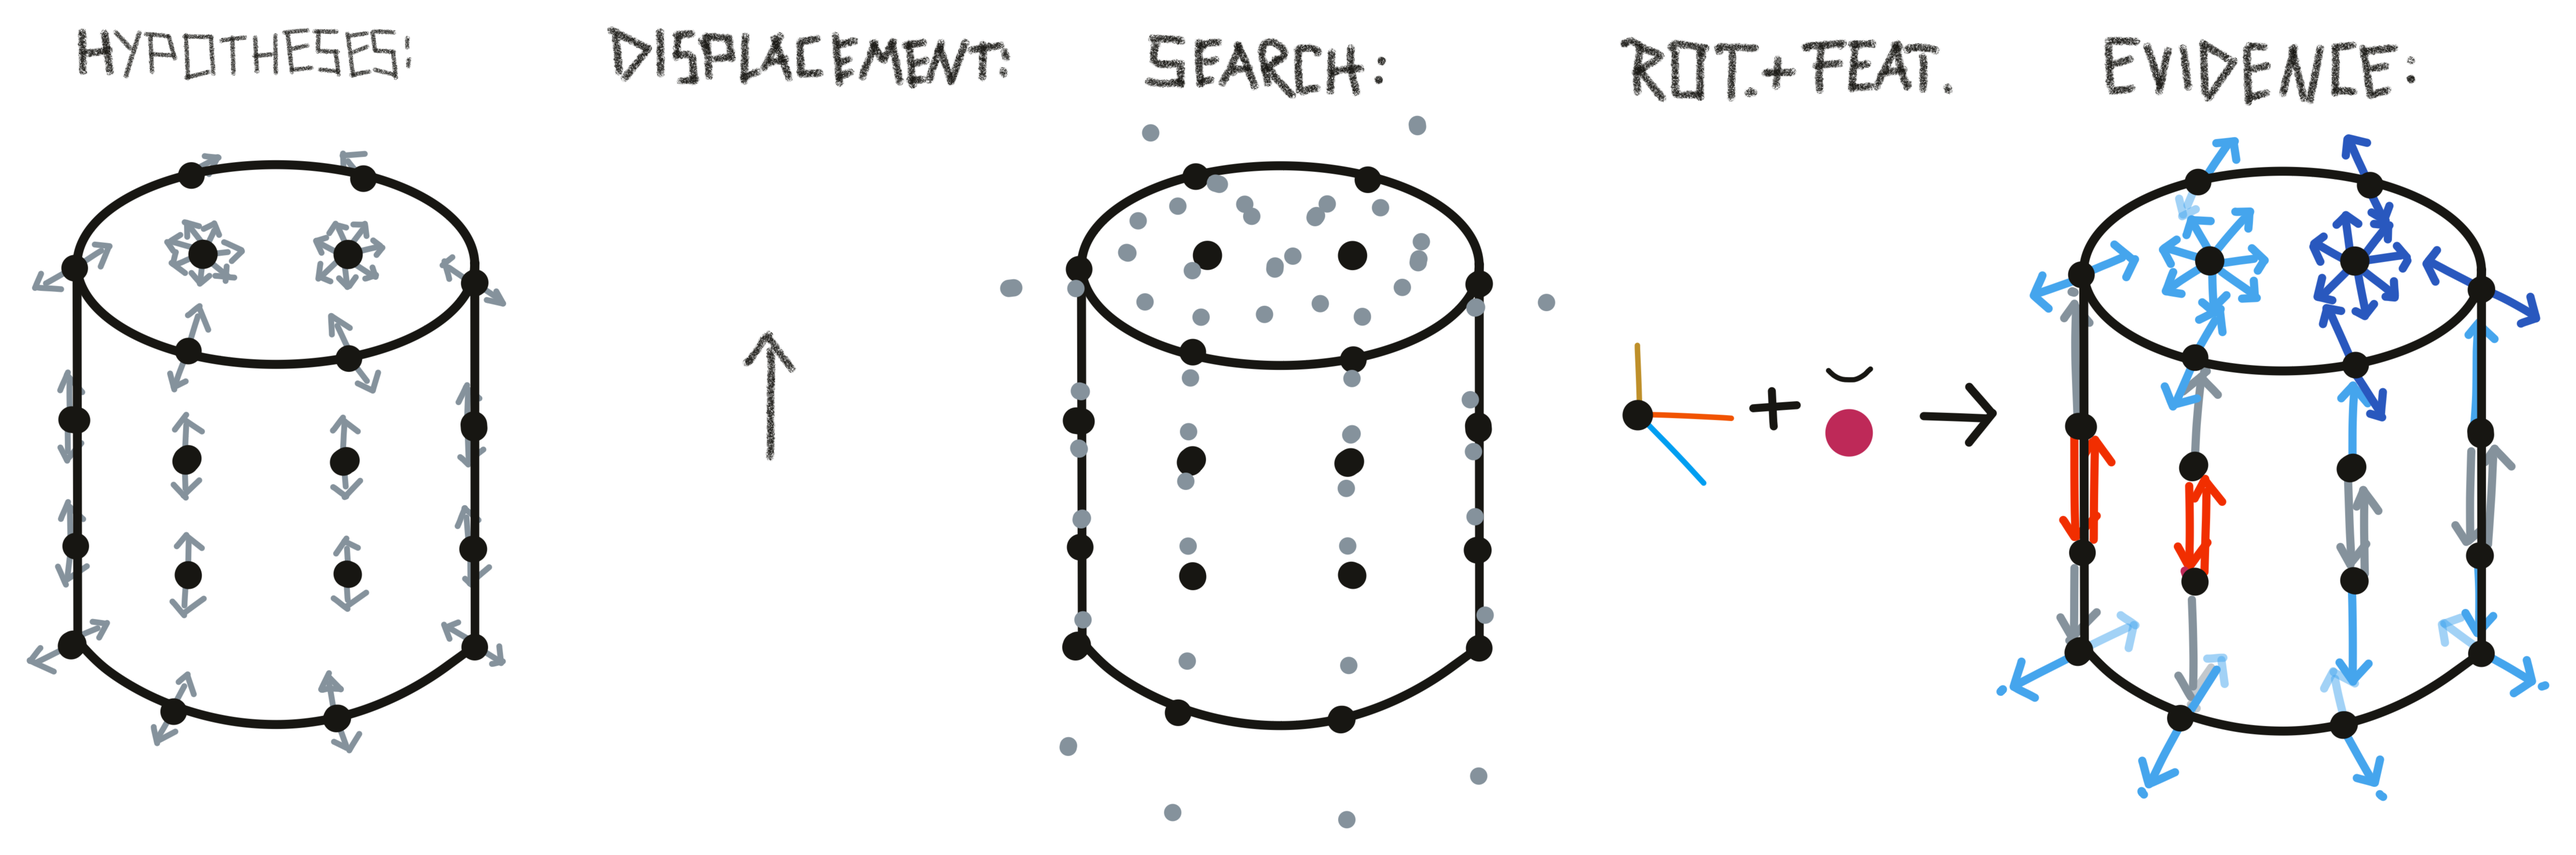
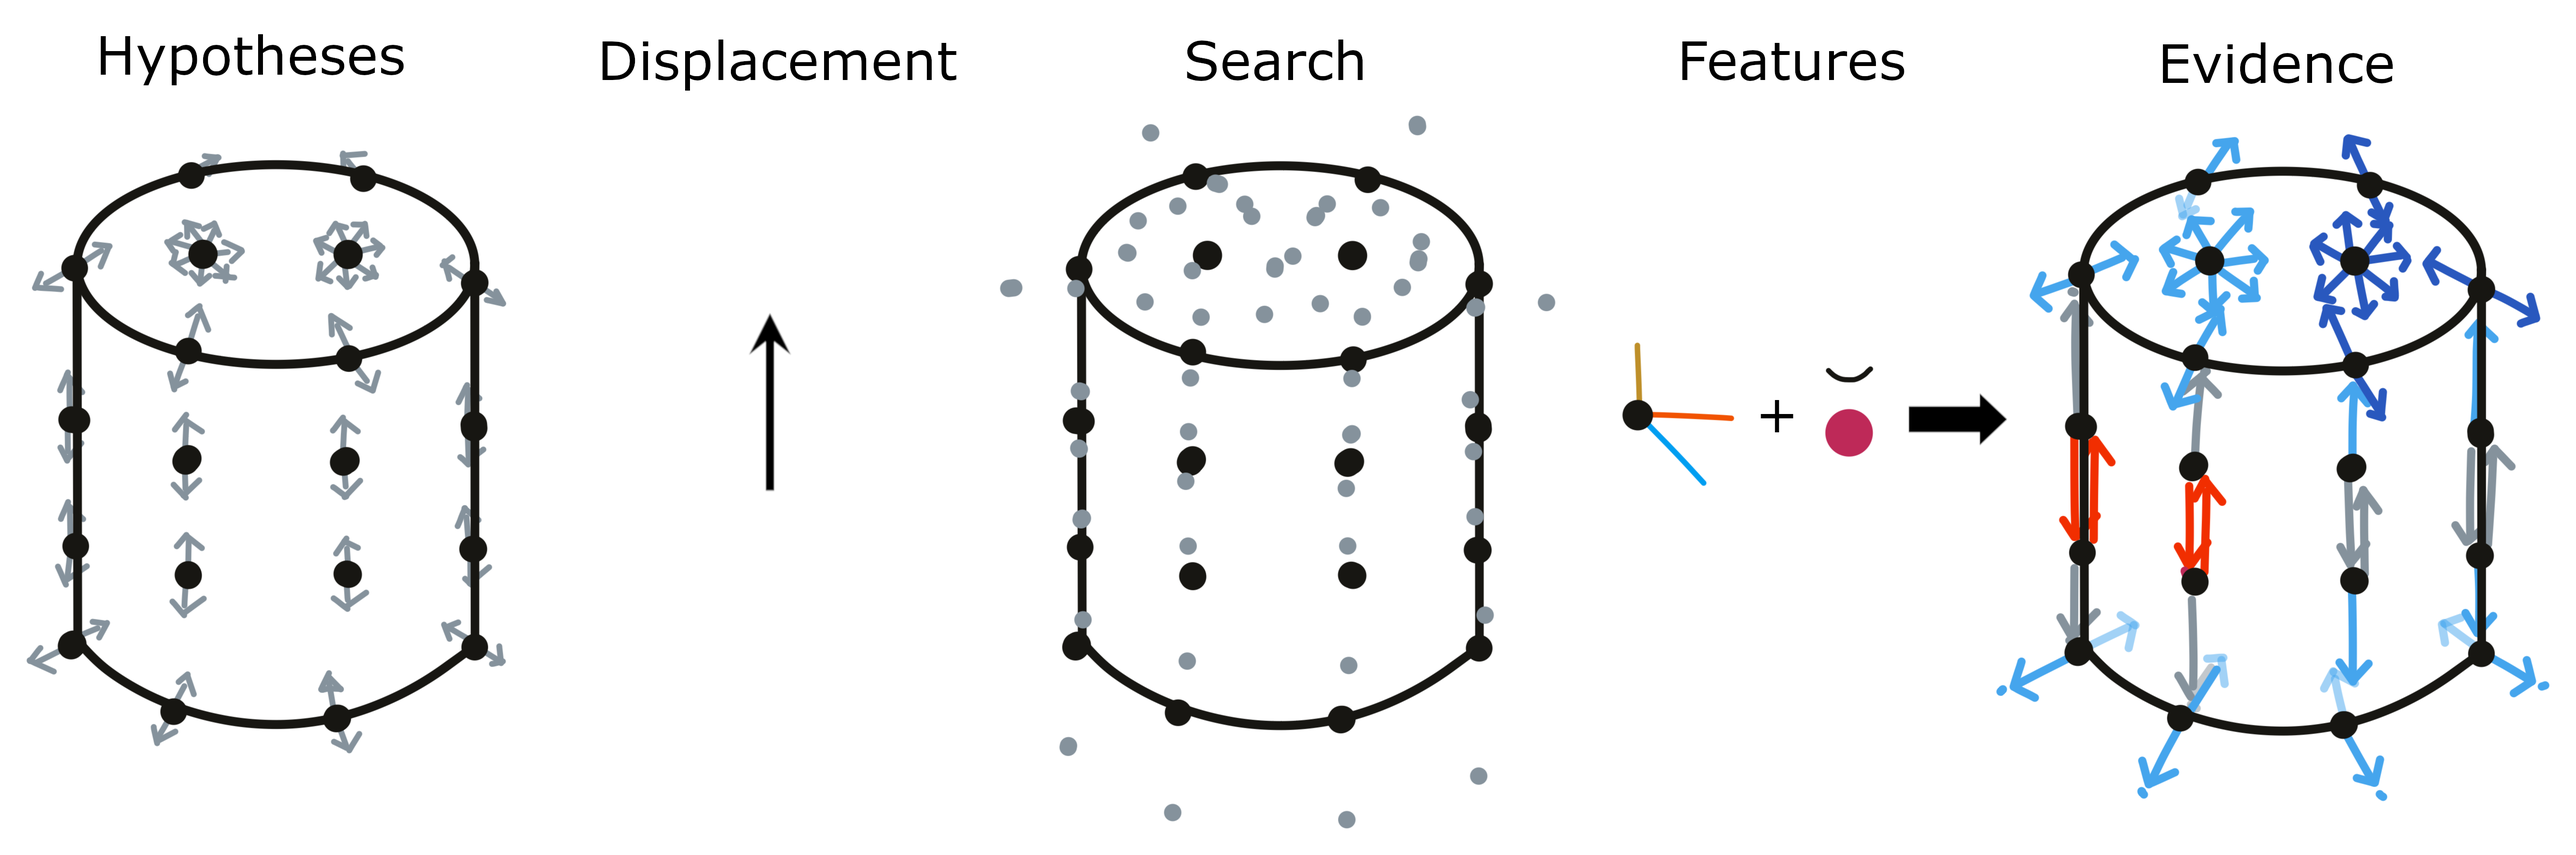
Add vectorized figures (#53)

diff --git a/docs/overview/architecture-overview/bringing-it-together.md b/docs/overview/architecture-overview/bringing-it-together.md
@@ -5,4 +5,4 @@ To consolidate these concepts, please see figure below) for a potential instanti
 
 While this hopefully makes the key concepts described above more concrete and tangible, keep in mind that this is just one way in which the architecture can be instantiated. By design, the Platform can be applied to any application that involves sensing and active interaction with an environment. Indeed, this might include more abstract examples such as browsing the web, or interacting with the instruments that control a scientific experiment.
 
-![High-level overview the architecture with all the main conceptual components applied to a concrete example. Green lines indicate the main flow of information up the hierarchy. Purple lines show top-down connections, biasing the lower-level learning modules. Light blue lines show lateral voting connections. Red lines show the communication of goal states which eventually translate into motor commands in the motor system. Every LM has a direct motor output. Information communicated along solid lines follows the CMP (contains features and pose). Discontinuations in the diagram are marked with dots on line-ends.  Dashed lines are the interface of the system with the world and subcortical compute units and do not need to follow the CMP. Green dashed lines communicate raw sensory input from sensors. Red dashed lines communicate motor commands to the actuators. The dark red dashed lines send sensory information directly to the motor system and implement a fast, model-free policies. The large, semi-transparent green arrow is an example of a connection carrying sensory outputs from a larger receptive field directly to the higher-level LM](../../figures/overview/overview_diagram.png)
+![High-level overview the architecture with all the main conceptual components applied to a concrete example. Blue lines indicate the main flow of information up the hierarchy. Purple lines show top-down connections, biasing the lower-level learning modules. Green lines show lateral voting connections. Pink lines show the communication of goal states which eventually translate into motor commands in the motor system. Every LM has a direct motor output. Information communicated along solid lines follows the CMP (contains features and pose). Discontinuations in the diagram are marked with dots on line-ends.  Dashed lines are the interface of the system with the world and subcortical compute units and do not need to follow the CMP. Blue dashed lines communicate raw sensory input from sensors. Pink dashed lines communicate motor commands to the actuators. The direct blue line from the SM to the motor system sends sensory information to support fast, model-free policies. The large, semi-transparent blue arrow is an example of a connection carrying sensory outputs from a larger receptive field directly to the higher-level LM](../../figures/overview/overview_diagram.png)

diff --git a/docs/how-monty-works/observations-transforms-sensor-modules.md b/docs/how-monty-works/observations-transforms-sensor-modules.md
@@ -23,7 +23,7 @@ The Cortical Messaging Protocol is defined in the State class. The output of eve
 
 The State class is quite general and depending who outputs it, it can be interpreted in different ways. As output of the sensor module, it can be seen as the observed state. When output by the learning module it can be interpreted as the hypothesized or most likely state. When it is the motor output of the LM it can be seen as a goal state (for instance specifying the desired location and orientation of a sensor or object in the world). Lastly, when sent as lateral votes between LMs we send a list of state class instances which can be interpreted as all possible states (where states do not contain non-morphological, modality-specific features but only pose information associated with object IDs).
 
-![Observation processing into Cortical Messaging Protocol. The sensor patch comprises a small area of the object (yellow square) and if the sensor is a camera it returns an RGBD image. We apply a transform to this image which calculates the x, y, z locations relative to the agent’s body for each pixel using the depth values and the sensor location. From these points in space, the sensor module then calculates the point normal and principal curvature directions at the center point of the patch (pose). Additionally, the sensor module can extract pose-independent features such as color and the magnitude of curvature. The pose (location + point normal and curvature direction) and features make up the observation at time step t and are the output of the sensor module.](../figures/how-monty-works/observations_w_labels.png)
+![Observation processing into Cortical Messaging Protocol. The sensor patch comprises a small area of the object (blue square) and if the sensor is a camera it returns an RGBD image. We apply a transform to this image which calculates the x, y, z locations relative to the agent’s body for each pixel using the depth values and the sensor location. From these points in space, the sensor module then calculates the point normal and principal curvature directions at the center point of the patch (pose). Additionally, the sensor module can extract pose-independent features such as color and the magnitude of curvature. The pose (location + point normal and curvature direction) and features make up the observation at time step t and are the output of the sensor module.](../figures/how-monty-works/observations_w_labels.png)
 
 ## Point Normals and Principle Curvatures
 [Point Normals and Principle Curvatures](https://res.cloudinary.com/dtnazefys/video/upload/v1731342526/point_normal.mp4)

diff --git a/docs/how-monty-works/how-learning-modules-work.md b/docs/how-monty-works/how-learning-modules-work.md
@@ -15,7 +15,7 @@ There are two modes the learning module could be in: **training** and **evaluati
 
 The training mode is split into two phases that alternate: The matching phase and the exploration phase. During the **matching phase** the module tries to determine the object ID and pose from a series of observations and actions. This is the same as in evaluation. After a terminal condition is met (object recognized or no possible match found) the module goes into the **exploration phase**. This phase continues to collect observations and adds them into the buffer the same way as during the previous phase, only the matching step is skipped. The exploration phase is used to add more information to the graph memory at the end of an episode. For example, the matching procedure could be done after three steps telling us that the past three observations are not consistent with any models in memory. Therefore we would want to store a new graph in memory but a graph made of only three observations is not very useful. Hence, we keep moving for `num_exploratory_steps` to collect more information about this object before adding it to memory. This is not necessary during evaluation since we do not update our models then.
 
-![First two episodes (separated by a vertical double line) during learning. After we recognize an object (matching phase) we can explore the object further to collect new information about it (green lines). This information can then be added to the model of the object in memory. The top row shows the agent’s movements during the episodes. The bottom row shows the models in memory. As we are learning from scratch, we have no model in memory during the first episode.](../figures/how-monty-works/learn_from_scratch.png)
+![First two episodes (separated by a vertical double line) during learning. After we recognize an object (matching phase) we can explore the object further to collect new information about it (pink lines). This information can then be added to the model of the object in memory. The top row shows the agent’s movements during the episodes. The bottom row shows the models in memory. As we are learning from scratch, we have no model in memory during the first episode.](../figures/how-monty-works/learn_from_scratch.png)
 
 
 <br />

diff --git a/docs/how-monty-works/environment-agent.md b/docs/how-monty-works/environment-agent.md
@@ -5,7 +5,7 @@ The 3D environment used for most experiments is **Habitat**, wrapped into a `Emb
 
 The environment is currently initialized with one agent that has N sensors attached to it using the `PatchAndViewFinderMountConfig`. This config by default has two sensors. The first sensor is the **sensor patch** which will be used for learning. It is a **camera, zoomed in 10x** such that it only perceives a small patch of the environment. The second sensor is the view-finder which is at the same location as the patch and moves together with it but its camera is not zoomed in. This one is only used at the beginning of an episode to get a good view of the object (more details in the policy section) and for visualization, but not for learning or inference. The agent setup can also be customized to use more than one sensor patch (such as in `TwoLMMontyConfig` or `FiveLMMontyConfig`, see figure below). The configs also specify the type of sensor used, the features that are being extracted, and the motor policy used by the agent.
 
-![Example of six sensors in Habitat. The view-finder is not connected to any sensor or learning module and is only used by the policy at the beginning of an episode and for visualization. Each patch connects to one sensor module.](../figures/how-monty-works/five_lm_views.jpg)
+![Example of six sensors in Habitat. The view-finder is not connected to any sensor or learning module and is only used by the policy at the beginning of an episode and for visualization. Each patch connects to one sensor module.](../figures/how-monty-works/five_lm_views.png)
 
 
 Generally, one can also initialize multiple agents and connect them to the same Monty model but there is currently no policy to coordinate them. The difference between adding more agents vs. adding more sensors to the same agent is that **all sensors connected to one agent have to move together** (like neighboring patches on the retina) while **separate agents can move independently** like fingers on a hand (see figure below).

diff --git a/docs/overview/architecture-overview/sensor-modules.md b/docs/overview/architecture-overview/sensor-modules.md
@@ -7,4 +7,4 @@ The sensor module contains a sensor and associates the input to the sensor with 
 
 A general principle of the system is that **any processing specific to a modality happens in the sensor module**. The output of the sensor module is not modality-specific anymore and can be processed by any learning module. A crucial requirement here is that each sensor module knows the pose of the feature relative to the sensor. This means that sensors need to be able to detect features and poses of features. The system can work with any type of sensor (vision, touch, radar, LiDAR,...) and integrate information from multiple sensory modalities without effort. For this to work, sensors need to communicate sensory information in a common language.
 
-![Sensor modules receive and process the raw sensory input. This is then communicated via a common messaging protocol to a learning module which uses this to learn and recognize models of anything in the environment.](../../figures/overview/s_mand_lm.png)
+![Sensor modules receive and process the raw sensory input. This is then communicated via a common messaging protocol to a learning module which uses this to learn and recognize models of anything in the environment.](../../figures/overview/sm_and_lm.png)
